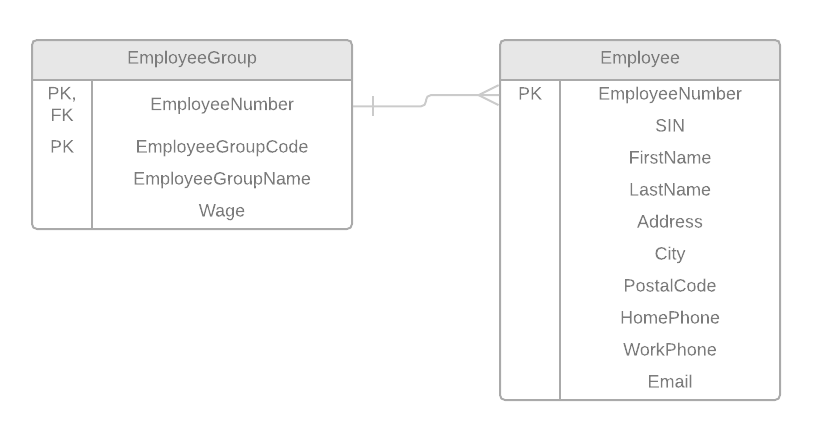
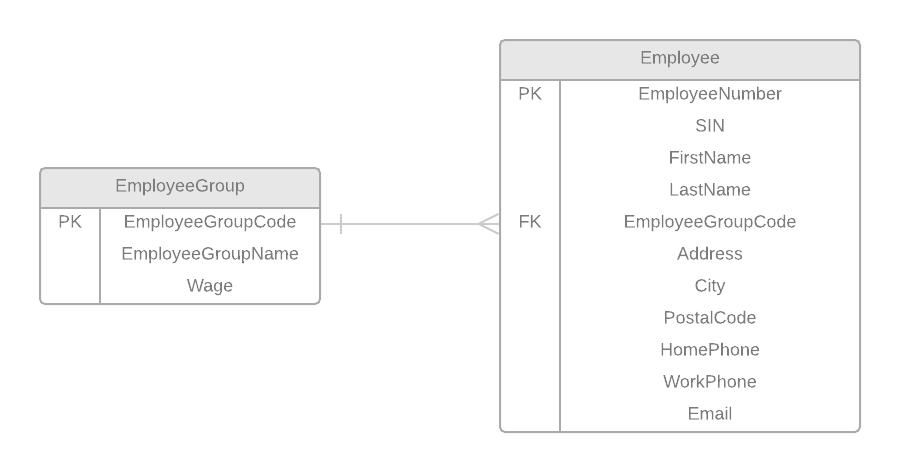
updated employee view

diff --git a/LAB1-Draft/Employee-View.md b/LAB1-Draft/Employee-View.md
@@ -23,14 +23,14 @@ After performing Third Normal Form, a new entity was generated: **_EmployeeGroup
 
 ## Entities After 3NF:
 
-**Employee**: ( <b class="pk">EmployeeNumber</b>, SIN, FirstName, LastName, <u class="fk">EmployeeGroupCode</u> Address, City, PostalCode, HomePhone, WorkPhone, Email )
+**Employee**: ( <b class="pk">EmployeeNumber</b>, SIN, FirstName, LastName, <u class="fk">EmployeeGroupCode</u>, Address, City, PostalCode, HomePhone, WorkPhone, Email )
 
 **EmployeeGroup**: ( <b class="pk">EmployeeGroupCode</b>, EmployeeGroupName, Wage )
 
 ## ERD
 The following ERD represents the tables/entities from the **Employee View**
 
-![]()
+![](Employee-View-ERD.png)
 
 
 
